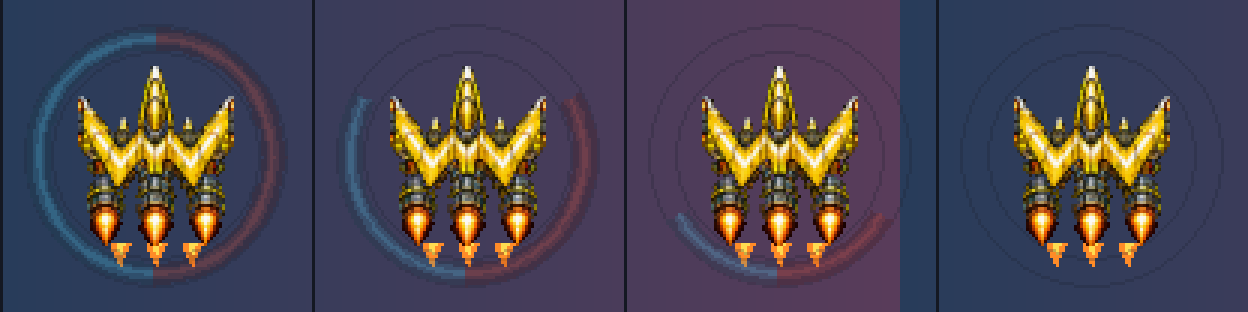
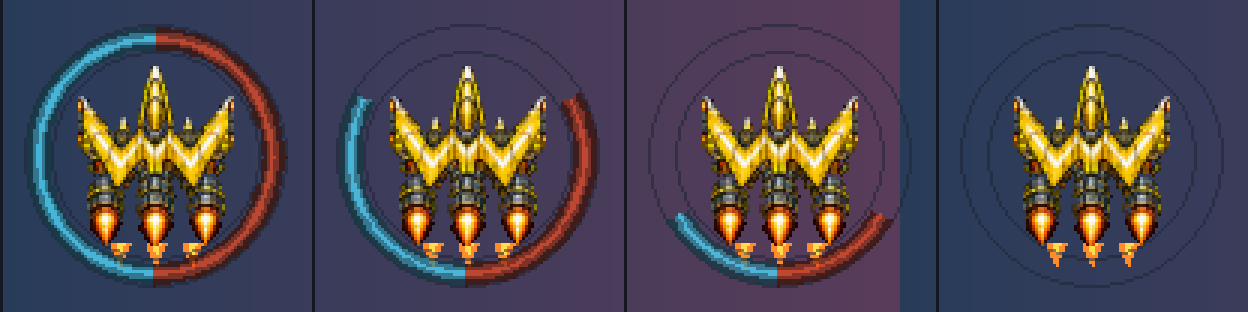
v0.9.417: cooldown arcs — fills 75% opacity, outline 50% (was a flat 25%)
Corrected the prior reading: the gauge should be 75% OPAQUE (not 75%
transparent), with the dark frame circles lighter at 50%. Replaced the single
_COOLDOWN_ARC_OPACITY=0.25 with two: _COOLDOWN_ARC_FILL_OPACITY=0.75 and
_COOLDOWN_ARC_OUTLINE_OPACITY=0.50, applied per-element on all three paths:
- cached + GPU: outline blits at out_a8, the rail/ball fill crops at fill_a8;
- live: outline circles and the fill arcs now render on SEPARATE temp layers,
  each faded by its own BLEND_RGBA_MULT (so they can carry different alpha).
Both still multiply the cinematic-fade `alpha` on top.

Changed region(s): [[0.0, 0.0865, 0.5, 0.9231], [0.5312, 0.6635, 0.7188, 0.9231]]

diff --git a/pewpew.py b/pewpew.py
@@ -140,7 +140,7 @@ def _web_is_touch():
 # features, major for big-rewrites. Skipping the bump means the next user
 # sees the same number and can't tell if they're on the latest build.
 # ──────────────────────────────────────────────────────────────────────────
-VERSION = "0.9.416"
+VERSION = "0.9.417"
 
 # ──────────────────────────────────────────────────────────────────────────
 # HUD layout suppression
@@ -8776,16 +8776,17 @@ class Player:
         outline = _cooldown_arc_outline_cache(base_r)
         half = outline.get_width() // 2
         ox, oy = cx - half, cy - half
-        a8 = max(0, min(255, int(alpha * self._COOLDOWN_ARC_OPACITY * 255)))
+        out_a8 = max(0, min(255, int(alpha * self._COOLDOWN_ARC_OUTLINE_OPACITY * 255)))
+        fill_a8 = max(0, min(255, int(alpha * self._COOLDOWN_ARC_FILL_OPACITY * 255)))
         gpu.blit(gpu.tex_for(outline),
                  pygame.Rect(ox, oy, outline.get_width(), outline.get_height()),
-                 alpha=a8)
+                 alpha=out_a8)
         if rail_ready > 0.02:
             self._blit_cropped_fill_gpu(
-                gpu, _cooldown_arc_fill_cache("rail", base_r), ox, oy, rail_ready, a8)
+                gpu, _cooldown_arc_fill_cache("rail", base_r), ox, oy, rail_ready, fill_a8)
         if ball_ready > 0.02:
             self._blit_cropped_fill_gpu(
-                gpu, _cooldown_arc_fill_cache("ball", base_r), ox, oy, ball_ready, a8)
+                gpu, _cooldown_arc_fill_cache("ball", base_r), ox, oy, ball_ready, fill_a8)
 
     @staticmethod
     def _blit_cropped_fill_gpu(gpu, cache, ox, oy, ratio, a8):
@@ -8861,10 +8862,11 @@ class Player:
     # rail / ball / outline palette so a colorkeyed opaque blit lets
     # the transparent track read as the playfield underneath.
     _COOLDOWN_ARC_CACHE_KEY_COLOR = (255, 0, 255)
-    # Master opacity for the whole gauge (track + fills). 0.25 → 75 %
-    # transparent. Folded into the per-blit alpha on every render path on
-    # top of the cinematic-fade `alpha`.
-    _COOLDOWN_ARC_OPACITY = 0.25
+    # Per-element opacity, folded into the per-blit alpha on every render path
+    # on top of the cinematic-fade `alpha`. Fills sit at 75 %, the dark frame
+    # circles at 50 % so the track reads lighter than the gauge.
+    _COOLDOWN_ARC_FILL_OPACITY = 0.75
+    _COOLDOWN_ARC_OUTLINE_OPACITY = 0.50
 
     def _draw_cooldown_arcs(self, surf, sprite_rect, center, alpha=1.0,
                                   fill_override=None):
@@ -8905,35 +8907,41 @@ class Player:
             self._draw_cooldown_arcs_cached(
                 surf, sprite_rect, center, rail_ready, ball_ready, alpha)
             return
-        # Non-RG live path. Render the gauge onto a temp SRCALPHA layer at full
-        # colour, then composite at alpha * _COOLDOWN_ARC_OPACITY so the whole
-        # thing is genuinely translucent — both the cinematic fade AND the 75%-
-        # transparent master opacity are real alpha now (not colour-darkening),
-        # matching the cached / GPU paths.
-        a8 = max(0, min(255, int(alpha * self._COOLDOWN_ARC_OPACITY * 255)))
-        if a8 <= 0:
+        # Non-RG live path. Render onto temp SRCALPHA layers at full colour then
+        # composite at real alpha (so the cinematic fade is real alpha too,
+        # matching the cached / GPU paths). The outline circles and the fill
+        # arcs get SEPARATE opacities (50 % vs 75 %) — two layers, each faded by
+        # its own BLEND_RGBA_MULT.
+        out_a8 = max(0, min(255, int(alpha * self._COOLDOWN_ARC_OUTLINE_OPACITY * 255)))
+        fill_a8 = max(0, min(255, int(alpha * self._COOLDOWN_ARC_FILL_OPACITY * 255)))
+        if out_a8 <= 0 and fill_a8 <= 0:
             return
         cx, cy = center
         base_r = max(sprite_rect.w, sprite_rect.h) // 2 + self._COOLDOWN_ARC_PAD
         inner_r = base_r
         outer_r = base_r + self._COOLDOWN_ARC_BAND
         side_px = (outer_r + 2) * 2
-        tmp = pygame.Surface((side_px, side_px), pygame.SRCALPHA)
         tcx = tcy = side_px // 2
         bottom = 3 * math.pi / 2
-        border = self._COOLDOWN_ARC_BORDER_COLOR
-        pygame.draw.circle(tmp, border, (tcx, tcy), outer_r + 1, 1)
-        pygame.draw.circle(tmp, border, (tcx, tcy), inner_r - 1, 1)
-        if rail_ready > 0.02:
-            self._draw_grad_arc(
-                tmp, self._COOLDOWN_ARC_RAIL_COLOR, tcx, tcy, inner_r, outer_r,
-                bottom - rail_ready * math.pi, bottom, alpha=1.0)
-        if ball_ready > 0.02:
-            self._draw_grad_arc(
-                tmp, self._COOLDOWN_ARC_BALL_COLOR, tcx, tcy, inner_r, outer_r,
-                bottom, bottom + ball_ready * math.pi, alpha=1.0)
-        tmp.fill((255, 255, 255, a8), special_flags=pygame.BLEND_RGBA_MULT)
-        surf.blit(tmp, (cx - tcx, cy - tcy))
+        if out_a8 > 0:
+            otmp = pygame.Surface((side_px, side_px), pygame.SRCALPHA)
+            border = self._COOLDOWN_ARC_BORDER_COLOR
+            pygame.draw.circle(otmp, border, (tcx, tcy), outer_r + 1, 1)
+            pygame.draw.circle(otmp, border, (tcx, tcy), inner_r - 1, 1)
+            otmp.fill((255, 255, 255, out_a8), special_flags=pygame.BLEND_RGBA_MULT)
+            surf.blit(otmp, (cx - tcx, cy - tcy))
+        if fill_a8 > 0 and (rail_ready > 0.02 or ball_ready > 0.02):
+            ftmp = pygame.Surface((side_px, side_px), pygame.SRCALPHA)
+            if rail_ready > 0.02:
+                self._draw_grad_arc(
+                    ftmp, self._COOLDOWN_ARC_RAIL_COLOR, tcx, tcy, inner_r, outer_r,
+                    bottom - rail_ready * math.pi, bottom, alpha=1.0)
+            if ball_ready > 0.02:
+                self._draw_grad_arc(
+                    ftmp, self._COOLDOWN_ARC_BALL_COLOR, tcx, tcy, inner_r, outer_r,
+                    bottom, bottom + ball_ready * math.pi, alpha=1.0)
+            ftmp.fill((255, 255, 255, fill_a8), special_flags=pygame.BLEND_RGBA_MULT)
+            surf.blit(ftmp, (cx - tcx, cy - tcy))
 
     def _draw_cooldown_arcs_cached(self, surf, sprite_rect, center,
                                           rail_ready, ball_ready, alpha):
@@ -8949,13 +8957,14 @@ class Player:
         half = outline.get_width() // 2
         ox = cx - half
         oy = cy - half
-        # Cinematic fade: dim the entire gauge via per-blit alpha. The
-        # cache itself stays at full brightness so we don't have to
-        # rebuild it as alpha ticks down.
-        a8 = max(0, min(255, int(alpha * self._COOLDOWN_ARC_OPACITY * 255)))
-        if a8 < 255:
+        # Per-element opacity (outline 50 % / fills 75 %) folded with the
+        # cinematic fade via per-blit set_alpha. The caches stay at full
+        # brightness so we don't rebuild them as alpha ticks down.
+        out_a8 = max(0, min(255, int(alpha * self._COOLDOWN_ARC_OUTLINE_OPACITY * 255)))
+        fill_a8 = max(0, min(255, int(alpha * self._COOLDOWN_ARC_FILL_OPACITY * 255)))
+        if out_a8 < 255:
             outline = outline.copy()
-            outline.set_alpha(a8)
+            outline.set_alpha(out_a8)
         surf.blit(outline, (ox, oy))
         # Rail (left half): fills bottom→top. The cache is the FULL
         # filled semicircle; for ratio r ∈ (0, 1], we blit a bottom-
@@ -8965,10 +8974,10 @@ class Player:
         # coverage tracks the angular sweep height.
         if rail_ready > 0.02:
             rail_cache = _cooldown_arc_fill_cache("rail", base_r)
-            self._blit_cropped_fill(surf, rail_cache, ox, oy, rail_ready, a8)
+            self._blit_cropped_fill(surf, rail_cache, ox, oy, rail_ready, fill_a8)
         if ball_ready > 0.02:
             ball_cache = _cooldown_arc_fill_cache("ball", base_r)
-            self._blit_cropped_fill(surf, ball_cache, ox, oy, ball_ready, a8)
+            self._blit_cropped_fill(surf, ball_cache, ox, oy, ball_ready, fill_a8)
 
     @staticmethod
     def _blit_cropped_fill(surf, cache, ox, oy, ratio, a8):
